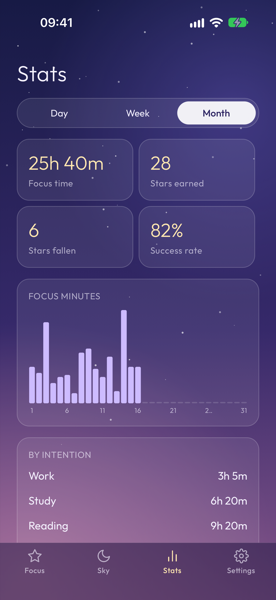
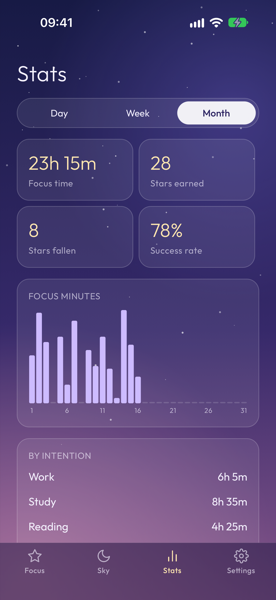
bugfix: uncut chart labels, fresh date after midnight, safer settings updates and demo seeding
- BarChart centres each label under its bar instead of clipping it to the bar width (month showed "2…" for 26)
- Stats and the Focus greeting re-read the clock when their tab is shown or the app returns
- updateSettings / renameUser read refs, so two quick changes don't overwrite each other
- Seed demo data keeps real sessions and only replaces an earlier seed
- README stats screenshot retaken with the fixed labels

diff --git a/src/state/AppProvider.tsx b/src/state/AppProvider.tsx
@@ -7,7 +7,7 @@ import React, {
   useRef,
   useState,
 } from 'react';
-import { generateDemoSessions } from '../domain/demo';
+import { generateDemoSessions, isDemoSession } from '../domain/demo';
 import { makeId } from '../domain/id';
 import {
   completeSession,
@@ -62,6 +62,10 @@ export function AppProvider({ children }: { children: React.ReactNode }) {
   sessionsRef.current = sessions;
   const activeRef = useRef(activeSession);
   activeRef.current = activeSession;
+  const userRef = useRef(user);
+  userRef.current = user;
+  const settingsRef = useRef(settings);
+  settingsRef.current = settings;
 
   const showToast = useCallback((msg: string) => setToast(msg), []);
   const hideToast = useCallback(() => setToast(null), []);
@@ -126,19 +130,23 @@ export function AppProvider({ children }: { children: React.ReactNode }) {
       showToast,
       async createUser(name) {
         const u = { name, createdAt: new Date().toISOString() };
+        userRef.current = u;
+        settingsRef.current = DEFAULT_SETTINGS;
         setUser(u);
         setSettings(DEFAULT_SETTINGS);
         await persist(() => storage.saveSettings(DEFAULT_SETTINGS));
         await persist(() => storage.saveUser(u));
       },
       async renameUser(name) {
-        if (!user) return;
-        const u = { ...user, name };
+        if (!userRef.current) return;
+        const u = { ...userRef.current, name };
+        userRef.current = u;
         setUser(u);
         await persist(() => storage.saveUser(u));
       },
       async updateSettings(patch) {
-        const next = { ...settings, ...patch };
+        const next = { ...settingsRef.current, ...patch };
+        settingsRef.current = next;
         setSettings(next);
         await persist(() => storage.saveSettings(next));
       },
@@ -165,10 +173,14 @@ export function AppProvider({ children }: { children: React.ReactNode }) {
         return done;
       },
       async seedDemoData() {
-        const demo = generateDemoSessions(new Date());
-        sessionsRef.current = demo;
-        setSessions(demo);
-        await persist(() => storage.saveSessions(demo));
+        // Keep real sessions; only replace demo data from an earlier seed.
+        const next = [
+          ...sessionsRef.current.filter(s => !isDemoSession(s)),
+          ...generateDemoSessions(new Date()),
+        ];
+        sessionsRef.current = next;
+        setSessions(next);
+        await persist(() => storage.saveSessions(next));
       },
       async resetAll() {
         // Only forget in-memory data once storage is really empty; otherwise old stars
@@ -179,6 +191,8 @@ export function AppProvider({ children }: { children: React.ReactNode }) {
         }
         sessionsRef.current = [];
         activeRef.current = null;
+        settingsRef.current = DEFAULT_SETTINGS;
+        userRef.current = null;
         setSessions([]);
         setActiveSession(null);
         setSettings(DEFAULT_SETTINGS);

diff --git a/src/components/BarChart.tsx b/src/components/BarChart.tsx
@@ -6,6 +6,7 @@ import { colors, spacing, typography } from '../theme/theme';
 
 const HEIGHT = 140;
 const GAP = 2;
+const LABEL_W = 32;
 
 interface BarChartProps {
   values: number[];
@@ -55,16 +56,20 @@ export function BarChart({ values, labels, labelEvery = 1 }: BarChartProps) {
           ))}
         </View>
       </View>
+      {/* Labels are wider than a bar in dense charts (a month has ~9 px per bar), so each one
+          is centred under its bar instead of being clipped to the bar's width. */}
       <View style={styles.labels}>
-        {labels.map((l, i) => (
-          <Text
-            key={i}
-            style={[styles.label, { width: barW }]}
-            numberOfLines={1}
-          >
-            {i % labelEvery === 0 ? l : ''}
-          </Text>
-        ))}
+        {labels.map((l, i) =>
+          i % labelEvery === 0 ? (
+            <Text
+              key={i}
+              style={[styles.label, { left: (i + 0.5) * barW - LABEL_W / 2 }]}
+              numberOfLines={1}
+            >
+              {l}
+            </Text>
+          ) : null,
+        )}
       </View>
     </View>
   );
@@ -72,6 +77,12 @@ export function BarChart({ values, labels, labelEvery = 1 }: BarChartProps) {
 
 const styles = StyleSheet.create({
   hit: { position: 'absolute', top: 0, bottom: 0 },
-  labels: { flexDirection: 'row', marginTop: spacing.xs },
-  label: { ...typography.caption, fontSize: 10, textAlign: 'center' },
+  labels: { height: 14, marginTop: spacing.xs },
+  label: {
+    ...typography.caption,
+    position: 'absolute',
+    width: LABEL_W,
+    fontSize: 10,
+    textAlign: 'center',
+  },
 });

diff --git a/src/screens/StatsScreen.tsx b/src/screens/StatsScreen.tsx
@@ -1,5 +1,13 @@
-import React, { useMemo, useState } from 'react';
-import { Pressable, ScrollView, StyleSheet, Text, View } from 'react-native';
+import React, { useCallback, useEffect, useMemo, useState } from 'react';
+import {
+  AppState,
+  Pressable,
+  ScrollView,
+  StyleSheet,
+  Text,
+  View,
+} from 'react-native';
+import { useFocusEffect } from '@react-navigation/native';
 import { SafeAreaView } from 'react-native-safe-area-context';
 import { BarChart } from '../components/BarChart';
 import { computeStats, formatMinutes, type Period } from '../domain/stats';
@@ -51,9 +59,19 @@ function Tile({
 export function StatsScreen() {
   const { sessions } = useApp();
   const [period, setPeriod] = useState<Period>('day');
+  // Tabs stay mounted, so re-read the clock whenever Stats is shown or the app comes back:
+  // otherwise "Day" would still show yesterday after midnight.
+  const [now, setNow] = useState(() => new Date());
+  useFocusEffect(useCallback(() => setNow(new Date()), []));
+  useEffect(() => {
+    const sub = AppState.addEventListener('change', s => {
+      if (s === 'active') setNow(new Date());
+    });
+    return () => sub.remove();
+  }, []);
   const stats = useMemo(
-    () => computeStats(sessions, period, new Date()),
-    [sessions, period],
+    () => computeStats(sessions, period, now),
+    [sessions, period, now],
   );
   const empty = stats.completed + stats.failed === 0;
 

diff --git a/src/screens/FocusScreen.tsx b/src/screens/FocusScreen.tsx
@@ -1,7 +1,7 @@
 import React, { useCallback, useEffect, useState } from 'react';
 import { AppState, Pressable, StyleSheet, Text, View } from 'react-native';
 import { SafeAreaView } from 'react-native-safe-area-context';
-import { useNavigation } from '@react-navigation/native';
+import { useFocusEffect, useNavigation } from '@react-navigation/native';
 import type { BottomTabNavigationProp } from '@react-navigation/bottom-tabs';
 import {
   activateKeepAwake,
@@ -80,6 +80,13 @@ export function FocusScreen() {
     const id = setInterval(tick, 1000);
     return () => clearInterval(id);
   }, [running, tick]);
+
+  // Coming back to this tab refreshes the greeting (tabs stay mounted for hours).
+  useFocusEffect(
+    useCallback(() => {
+      if (!running) setNow(new Date());
+    }, [running]),
+  );
 
   // Coming back to the app refreshes the clock (greeting, countdown) even while idle.
   useEffect(() => {

diff --git a/src/domain/demo.ts b/src/domain/demo.ts
@@ -5,6 +5,11 @@ const DAY_MS = 86_400_000;
 const HOUR_MS = 3_600_000;
 const DAYS = 30;
 const COMPLETED_SHARE = 0.8;
+const ID_PREFIX = 'demo-';
+
+export function isDemoSession(s: Session): boolean {
+  return s.id.startsWith(ID_PREFIX);
+}
 
 /** ~30 days of plausible sessions for exploring Sky and Stats in debug builds. */
 export function generateDemoSessions(
@@ -25,7 +30,7 @@ export function generateDemoSessions(
       const completed = rand() < COMPLETED_SHARE;
       const failedAfterMin = Math.max(1, Math.floor(plannedMin * rand()));
       sessions.push({
-        id: `demo-${daysAgo}-${k}`,
+        id: `${ID_PREFIX}${daysAgo}-${k}`,
         startedAt: new Date(start).toISOString(),
         endedAt: new Date(
           start + (completed ? plannedMin : failedAfterMin) * 60_000,

diff --git a/docs/superpowers/specs/2026-10-13-stillsky-design.md b/docs/superpowers/specs/2026-10-13-stillsky-design.md
@@ -102,7 +102,8 @@ States:
 - **Reset all data** → dialog requiring the user to type `RESET`; confirm button disabled until it
   matches exactly. Confirm clears all storage keys and navigates to Onboarding.
 - **Debug builds only**: **Seed demo data** button — generates ~30 days of random sessions
-  (mixed intentions, ~80% completed) replacing existing sessions.
+  (mixed intentions, ~80% completed). Real sessions are kept; seeding again replaces only the
+  earlier demo sessions.
 - App version (from native build) at bottom.
 
 ## 4.6 Visual design ("Twilight glass")
